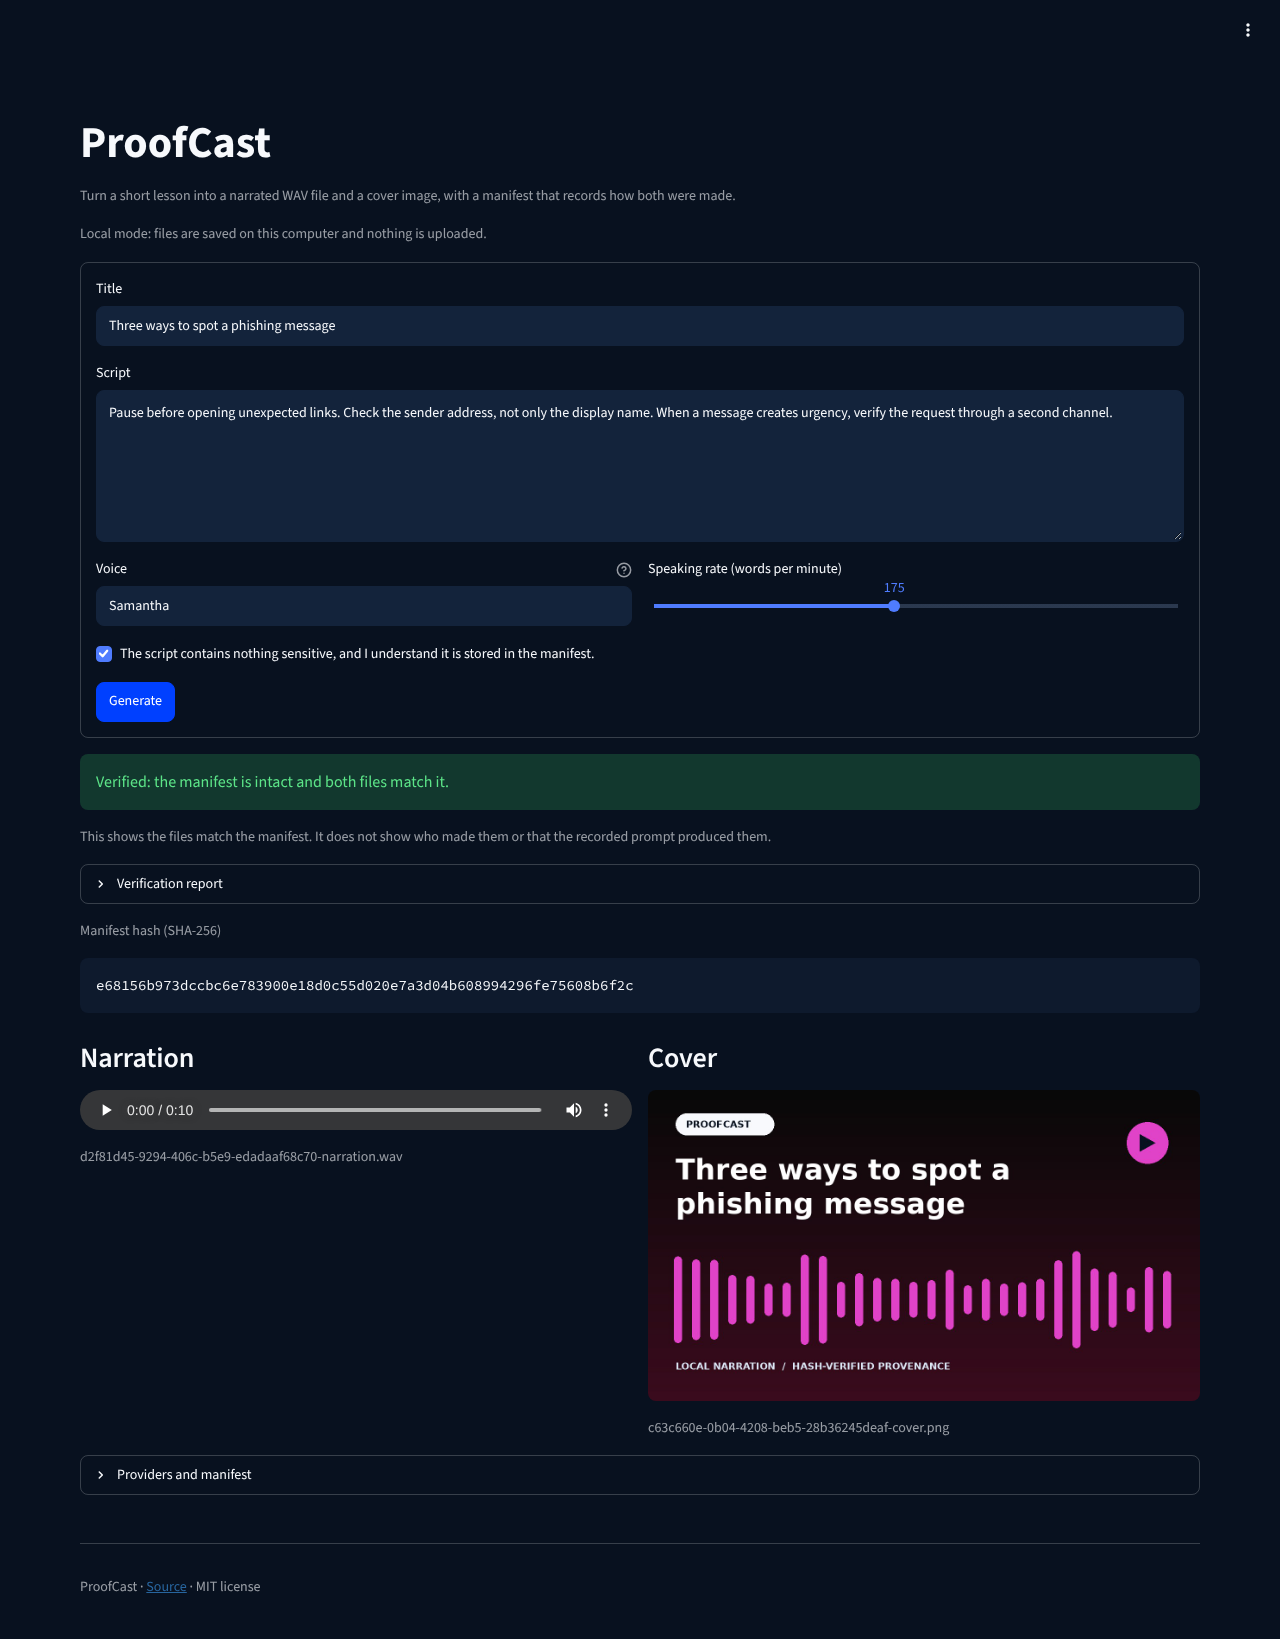
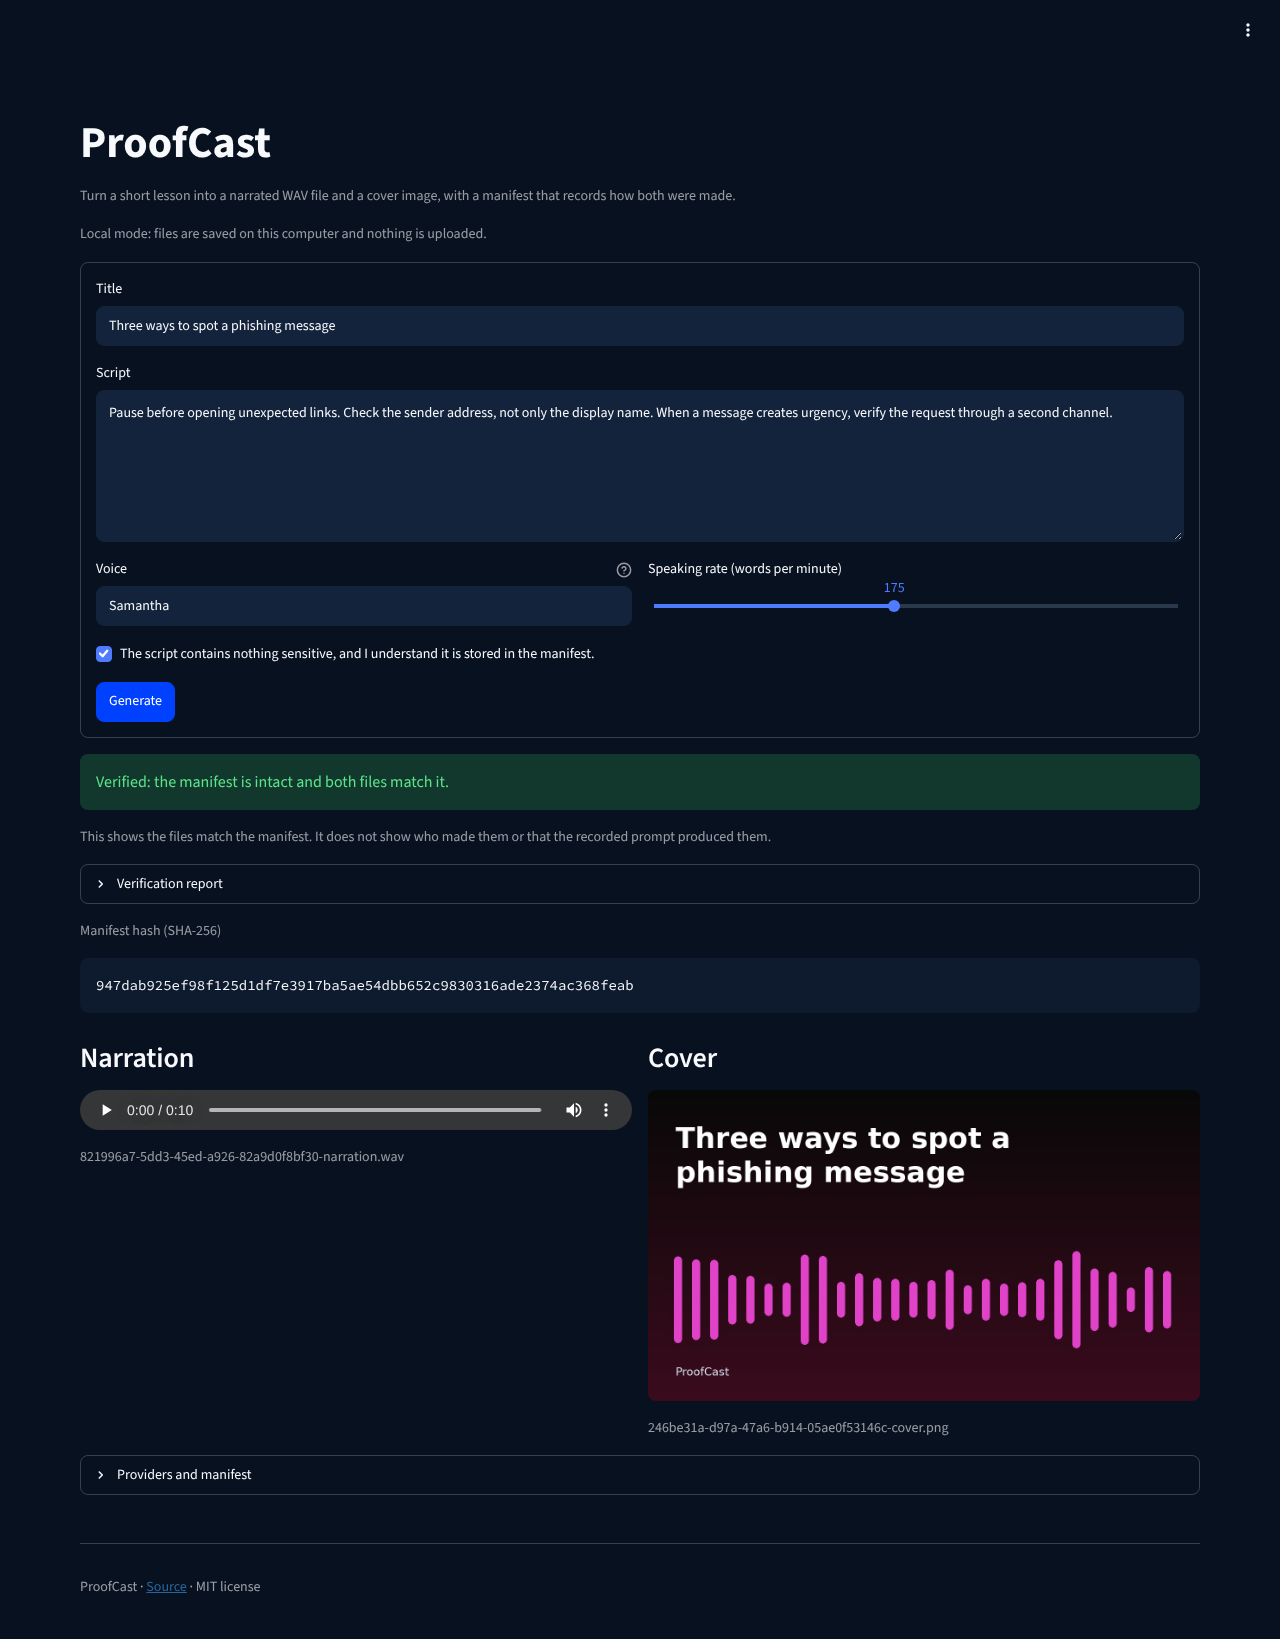
Draw a plainer cover and keep v1 bundles verifying (#9)
The generated cover carried three decorations that read as a template:
a "PROOFCAST" pill, an uppercase "LOCAL NARRATION / HASH-VERIFIED
PROVENANCE" line, and a play button that did nothing on a still
image. The v2 cover keeps the title, the waveform drawn from the
prompt's hash, and a small "ProofCast" wordmark. The title moves up
into the space the pill used.

A different picture from the same inputs is a different generator, so
the model name becomes proofcast-accessible-cover-v2. Verification now
accepts v1 and v2 (COVER_MODELS), so bundles made before this change
still verify, and still rejects any other cover model.

Tests: new bundles record v2; a bundle relabelled as v1 (with its
generator metadata, rehashed) still verifies; a v3 label is refused.
The v1 test fails on the old code, which only knew v1.

docs/app.png is recaptured from the app after one local run with
eSpeak NG, at the same 1280 x 1639 framing.

Verification: python -m pytest, 290 passed.

Claude-Session: https://claude.ai/code/session_016h2RvhZFj77hPxFn8TQUqq

diff --git a/proofcast/providers.py b/proofcast/providers.py
@@ -165,7 +165,7 @@ class AccessibleCoverProvider(SyncProvider):
     """Generate a high-contrast editorial cover from the same prompt."""
 
     name = "proofcast-accessible-cover"
-    model_name = "proofcast-accessible-cover-v1"
+    model_name = "proofcast-accessible-cover-v2"
 
     def __init__(self, output_dir: Path) -> None:
         super().__init__(retry_policy=RetryPolicy.disabled())
@@ -235,24 +235,16 @@ class AccessibleCoverProvider(SyncProvider):
             bottom = center + magnitude / 2
             draw.rounded_rectangle((x, top, x + 18, bottom), radius=9, fill=accent)
 
-        draw.rounded_rectangle((64, 54, 292, 104), radius=25, fill="#f7f9fc")
-        draw.text((88, 66), "PROOFCAST", fill="#08111f", font=self._font(22, bold=True))
-
+        # v2 keeps the title, the waveform and a quiet wordmark. v1 also drew a
+        # "PROOFCAST" pill, an uppercase tagline and a play button that did nothing.
         wrapped = textwrap.wrap(title, width=28)[:3]
-        y = 145
+        y = 72
         title_font = self._font(66, bold=True)
         for line in wrapped:
             draw.text((64, y), line, fill="#ffffff", font=title_font)
             y += 79
 
-        draw.text(
-            (64, 626),
-            "LOCAL NARRATION  /  HASH-VERIFIED PROVENANCE",
-            fill="#dce7f7",
-            font=self._font(22, bold=True),
-        )
-        draw.ellipse((1110, 74, 1206, 170), fill=accent)
-        draw.polygon(((1140, 102), (1140, 142), (1176, 122)), fill="#08111f")
+        draw.text((64, 636), "ProofCast", fill="#dce7f7", font=self._font(26))
         return image
 
     @staticmethod

diff --git a/tests/test_verification.py b/tests/test_verification.py
@@ -233,6 +233,7 @@ def test_rehashed_non_media_bytes_are_rejected(local_bundle):
     [
         (0, "model", "unrelated-speech-model"),
         (1, "model", "unrelated-image-model"),
+        (1, "model", "proofcast-accessible-cover-v3"),
     ],
 )
 def test_rehashed_provider_model_inconsistency_is_rejected(
@@ -247,6 +248,21 @@ def test_rehashed_provider_model_inconsistency_is_rejected(
     assert report.manifest_verified
     assert not report.verified
     assert "bundle_contract_mismatch" in report.issues
+
+
+def test_new_bundles_use_the_v2_cover_and_v1_bundles_still_verify(local_bundle):
+    data = json.loads(local_bundle.manifest_path.read_text())
+    cover_step = data["run"]["steps"][1]
+    assert cover_step["model"] == "proofcast-accessible-cover-v2"
+
+    def label_as_v1(d):
+        step = d["run"]["steps"][1]
+        step["model"] = "proofcast-accessible-cover-v1"
+        step["assets"][0]["metadata"]["generator"] = "proofcast-accessible-cover-v1"
+
+    rewrite(local_bundle, label_as_v1, rehash=True)
+    report = inspect(local_bundle.manifest_path)
+    assert report.verified, report.issues
 
 
 def test_crc_valid_png_with_broken_compressed_pixels_is_rejected(local_bundle):

diff --git a/proofcast/verification.py b/proofcast/verification.py
@@ -27,6 +27,8 @@ from PIL import Image, UnidentifiedImageError
 
 MAX_MANIFEST_BYTES = 1024 * 1024
 MAX_ASSET_BYTES = 32 * 1024 * 1024
+# Cover generators whose bundles verify; v1 bundles predate the plainer v2 design.
+COVER_MODELS = ("proofcast-accessible-cover-v1", "proofcast-accessible-cover-v2")
 SCOPE = (
     "Checks the supplied manifest's integrity and the two local media files' "
     "SHA-256, size and format metadata. No URL is fetched. Does not authenticate "
@@ -263,7 +265,7 @@ def _contract_ok(manifest: Manifest) -> bool:
             return False
         if role == "image":
             if (
-                step.model != "proofcast-accessible-cover-v1"
+                step.model not in COVER_MODELS
                 or asset.metadata.get("generator") != step.model
             ):
                 return False

diff --git a/README.md b/README.md
@@ -53,7 +53,9 @@ keeps that record with the files.
 |---|---|---|---:|
 | Narration on macOS | `proofcast-local-speech` | Apple Speech voice selected by the user | $0 |
 | Narration on Linux or a server | `proofcast-local-speech` | `espeak-ng-en-us` | $0 |
-| Cover | `proofcast-accessible-cover` | `proofcast-accessible-cover-v1` | $0 |
+| Cover | `proofcast-accessible-cover` | `proofcast-accessible-cover-v2` | $0 |
+
+Bundles made with the earlier `proofcast-accessible-cover-v1` still verify.
 
 Any Genblaze speech or image connector could replace these providers without changing the
 storage and provenance layer. The app caps scripts at 1,200 characters, turns off provider
